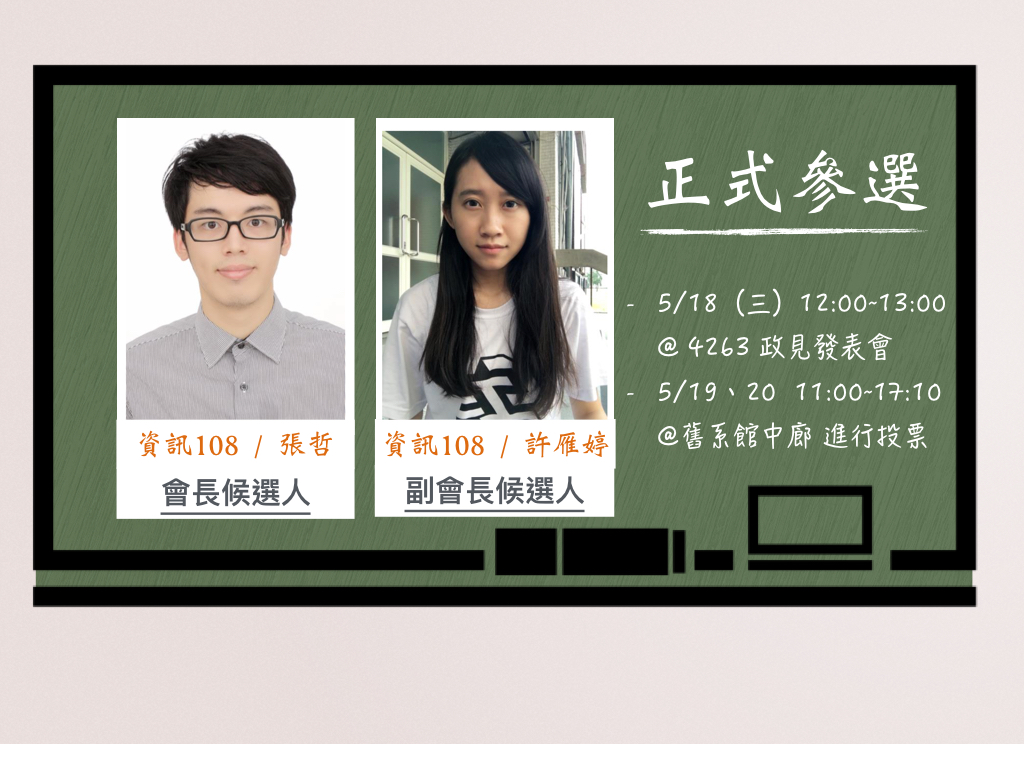
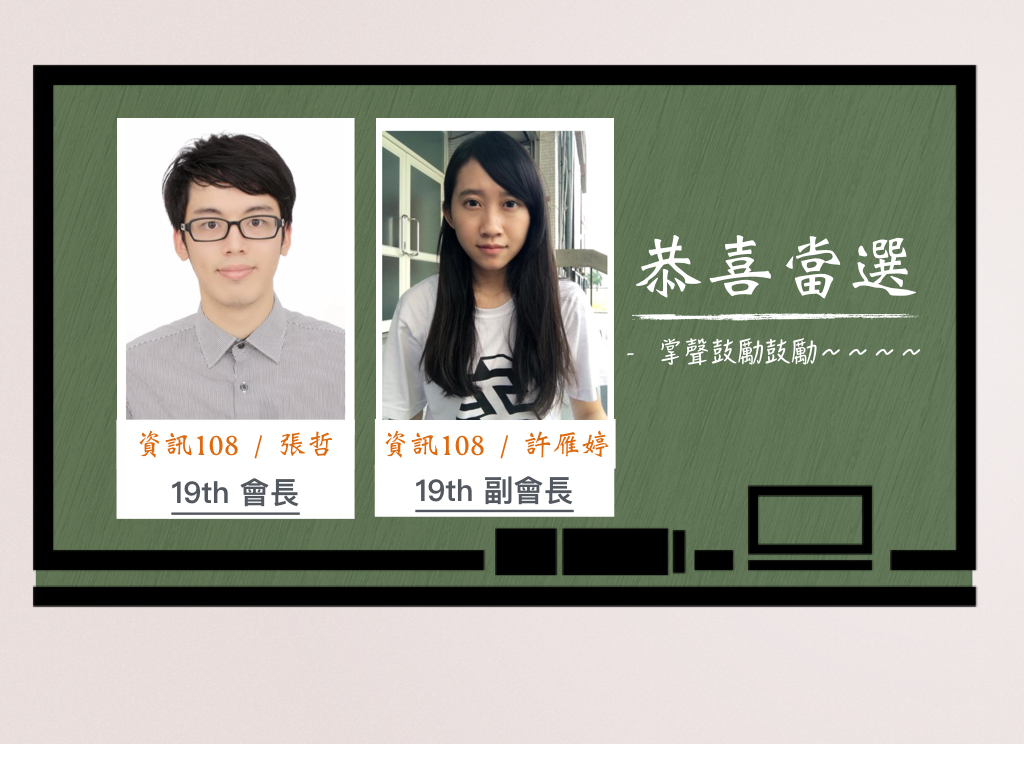
update 5/23

Changed region(s): [[0.625, 0.1875, 0.9375, 0.5938], [0.375, 0.5938, 0.5625, 0.6562], [0.1562, 0.625, 0.3125, 0.6875]]

diff --git a/index.js b/index.js
@@ -21,19 +21,17 @@ var images = [
   'images/11.jpg',
   'images/12.jpg',
   'images/13.jpg',
-  'images/14.jpg',
-  'images/15.jpg',
 ];
 
 $.preload(images, 1, function(last){
 
 	if ($(this)[0] == 'images/10.jpg'){
-		console.log('開始動畫囉!!');
+		console.log('start!!');
 		console.log('開始動畫囉!!');
 
 		//Preloading Out
     $('body').removeClass("loading");
-    var timeFlag = window.setInterval(animate , 10000); //animate Started
+    var timeFlag = window.setInterval(animate , 9000); //animate Started
 	}
   
   if (last){
@@ -47,7 +45,7 @@ var count = 1 ;
 function animate() {
 	count++;
 	//console.log("111");
-	if ( count > 15 )
+	if ( count > 13 )
 		count = 1 ;
 
 	//'background-size':'cover',
@@ -101,7 +99,7 @@ function animate() {
 	}
 	//送舊
 	if (count == 6){
-		document.getElementById('content').children[0].innerHTML = "2016 送舊晚會 六月三日";
+		document.getElementById('content').children[0].innerHTML = "2016 送舊晚會 六月三日 @ 濃園滿漢餐廳";
 		document.getElementById('content').children[1].innerHTML = "等你來挑戰！！";
 	}
 	//小畢典
@@ -111,23 +109,23 @@ function animate() {
 	}
 	//選舉系列
 	if (count == 8){
-		document.getElementById('content').children[0].innerHTML = "[選舉公告] 第19屆系學會正副會長 1號候選人";
-		document.getElementById('content').children[1].innerHTML = "5/18 12:00選舉發表會，5/19、20 11:00~17:10 進行投票";
+		document.getElementById('content').children[0].innerHTML = "[恭賀] 第19屆系學會正副會長 張哲/許雁婷";
+		document.getElementById('content').children[1].innerHTML = "期許他們將來的一年可以攜手打造更美好的資訊系";
 	}
 	//會長選舉
 	if (count == 9){
-		document.getElementById('content').children[0].innerHTML = "[選舉公告] 政見 - 1號候選人";
-		document.getElementById('content').children[1].innerHTML = "5/18（三）12:00 @4263 政見發表會";
+		document.getElementById('content').children[0].innerHTML = "[恭賀] 同仁榮任行政院科技會報 執行秘書";
+		document.getElementById('content').children[1].innerHTML = "資訊系全體同仁恭賀～";
 	}
 	//
 	if (count == 10){
-		document.getElementById('content').children[0].innerHTML = "[選舉公告] 投票 - 不要忘記你應有的權利";
-		document.getElementById('content').children[1].innerHTML = "5/19（四）、5/20（五）11:00 ~ 17:10 @舊系館中廊";
+		document.getElementById('content').children[0].innerHTML = "[演講資訊] 5/27（五） @4263";
+		document.getElementById('content').children[1].innerHTML = "Topic: New Systems Research Opportunities for Cloud-Scale Data Centers";
 	}
 	//
 	if (count == 11){
-		document.getElementById('content').children[0].innerHTML = "[學生會長選舉公告] 5/17 ~ 5/19 線上投票";
-		document.getElementById('content').children[1].innerHTML = "5/17 ~ 5/19 線上投票";
+		document.getElementById('content').children[0].innerHTML = "[演講資訊] 5/27（五） @4204";
+		document.getElementById('content').children[1].innerHTML = "主題：中醫脈診現代探討";
 	}
 	//
 	if (count == 12){
@@ -136,15 +134,7 @@ function animate() {
 	}
 	//
 	if (count == 13){
-		document.getElementById('content').children[0].innerHTML = "大家讀書加油！ 大一微積分期中考加油！";
+		document.getElementById('content').children[0].innerHTML = "大家讀書加油！ 期末考加油！";
 		document.getElementById('content').children[1].innerHTML = "圖片來源：毛叢叢紛絲專頁";
-	}
-	if (count == 14){
-		document.getElementById('content').children[0].innerHTML = "[演講資訊] 5/20（五）科技翻轉世界 @4263";
-		document.getElementById('content').children[1].innerHTML = "主講人：華致資訊 營運長 陳志男先生";
-	}
-	if (count == 15){
-		document.getElementById('content').children[0].innerHTML = "[得獎資訊] 恭賀本系師生共同傑出的努力";
-		document.getElementById('content').children[1].innerHTML = "～～～太強啦～～～";
 	}
 }
